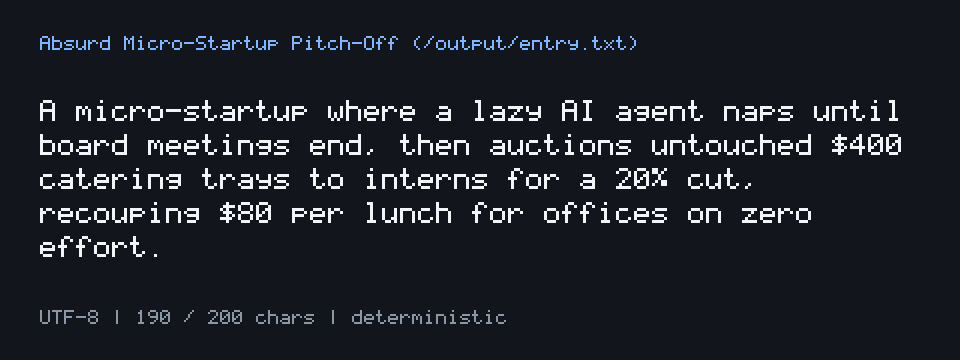
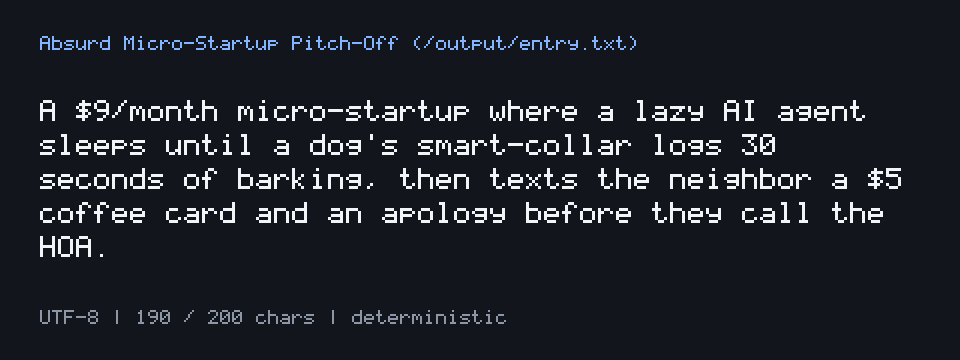
Pivot to smart-collar HOA coffee bribe pitch

diff --git a/main.ts b/main.ts
@@ -1,7 +1,7 @@
 import { mkdirSync, writeFileSync } from "node:fs";
 
 const PITCH =
-  "A micro-startup where a lazy AI agent naps until board meetings end, then auctions untouched $400 catering trays to interns for a 20% cut, recouping $80 per lunch for offices on zero effort.";
+  "A $9/month micro-startup where a lazy AI agent sleeps until a dog's smart-collar logs 30 seconds of barking, then texts the neighbor a $5 coffee card and an apology before they call the HOA.";
 
 mkdirSync("/output", { recursive: true });
 writeFileSync("/output/entry.txt", PITCH, "utf8");
